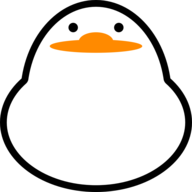
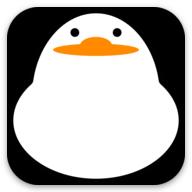
HTML: Skills

diff --git a/index.html b/index.html
@@ -37,9 +37,11 @@
       sizes="16x16"
       href="imgs/favicon-16x16.png"
     />
-    <link rel="manifest" href="/site.webmanifest" />
-    <link rel="mask-icon" href="imgs/safari-pinned-tab.svg" color="#5bbad5" />
-    <meta name="msapplication-TileColor" content="#da532c" />
+    <link rel="manifest" href="imgs/site.webmanifest" />
+    <link rel="mask-icon" href="imgs/safari-pinned-tab.svg" color="#3d3d3d" />
+    <link rel="shortcut icon" href="imgs/favicon.ico" />
+    <meta name="msapplication-TileColor" content="#000000" />
+    <meta name="msapplication-config" content="imgs/browserconfig.xml" />
     <meta name="theme-color" content="#ffffff" />
     <link rel="stylesheet" href="styles.css" />
     <script src="main.js" defer></script>
@@ -108,7 +110,73 @@
       </div>
     </section>
     <!-- Skills -->
-    <section id="skills"></section>
+    <section id="skills">
+      <h1>Skills</h1>
+      <h2>Skills & Attributes</h2>
+      <p>
+        Lorem ipsum dolor sit amet consectetur, adipisicing elit. Voluptate
+        dignissimos quos possimus ab assumenda distinctio aut doloremque
+        molestias dolores accusamus aliquid voluptatibus cum non autem ut, quod
+        laborum iste eum.
+      </p>
+      <div class="skillset">
+        <div class="skill__left">
+          <h3 class="skillset_title">Skills</h3>
+          <div class="skill">
+            <div class="skill_description">
+              <span>HTML</span>
+              <span>99%</span>
+            </div>
+            <div class="skill__bar">
+              <div class="skill__value"></div>
+            </div>
+          </div>
+          <div class="skill">
+            <div class="skill_description">
+              <span>CSS</span>
+              <span>99%</span>
+            </div>
+            <div class="skill__bar">
+              <div class="skill__value"></div>
+            </div>
+          </div>
+          <div class="skill">
+            <div class="skill_description">
+              <span>JAVASCRIPT</span>
+              <span>99%</span>
+            </div>
+            <div class="skill__bar">
+              <div class="skill__value"></div>
+            </div>
+          </div>
+          <div class="skill">
+            <div class="skill_description">
+              <span>PYTHON</span>
+              <span>99%</span>
+            </div>
+            <div class="skill__bar">
+              <div class="skill__value"></div>
+            </div>
+          </div>
+        </div>
+        <div class="skillset__right">
+          <div class="tools">
+            <h3 class="skillset_title">Tools</h3>
+            <ul class="tools__list">
+              <li><span>VS CODE</span></li>
+              <li><span>ADOBE PHOTOSHOP</span></li>
+            </ul>
+          </div>
+          <div class="etc">
+            <h3 class="skillset_title">Etc</h3>
+            <ul class="etc__list">
+              <li><span>Git</span></li>
+              <li><span>Communication</span></li>
+            </ul>
+          </div>
+        </div>
+      </div>
+    </section>
     <!-- Work -->
     <section id="work"></section>
     <!-- Testimonials -->
